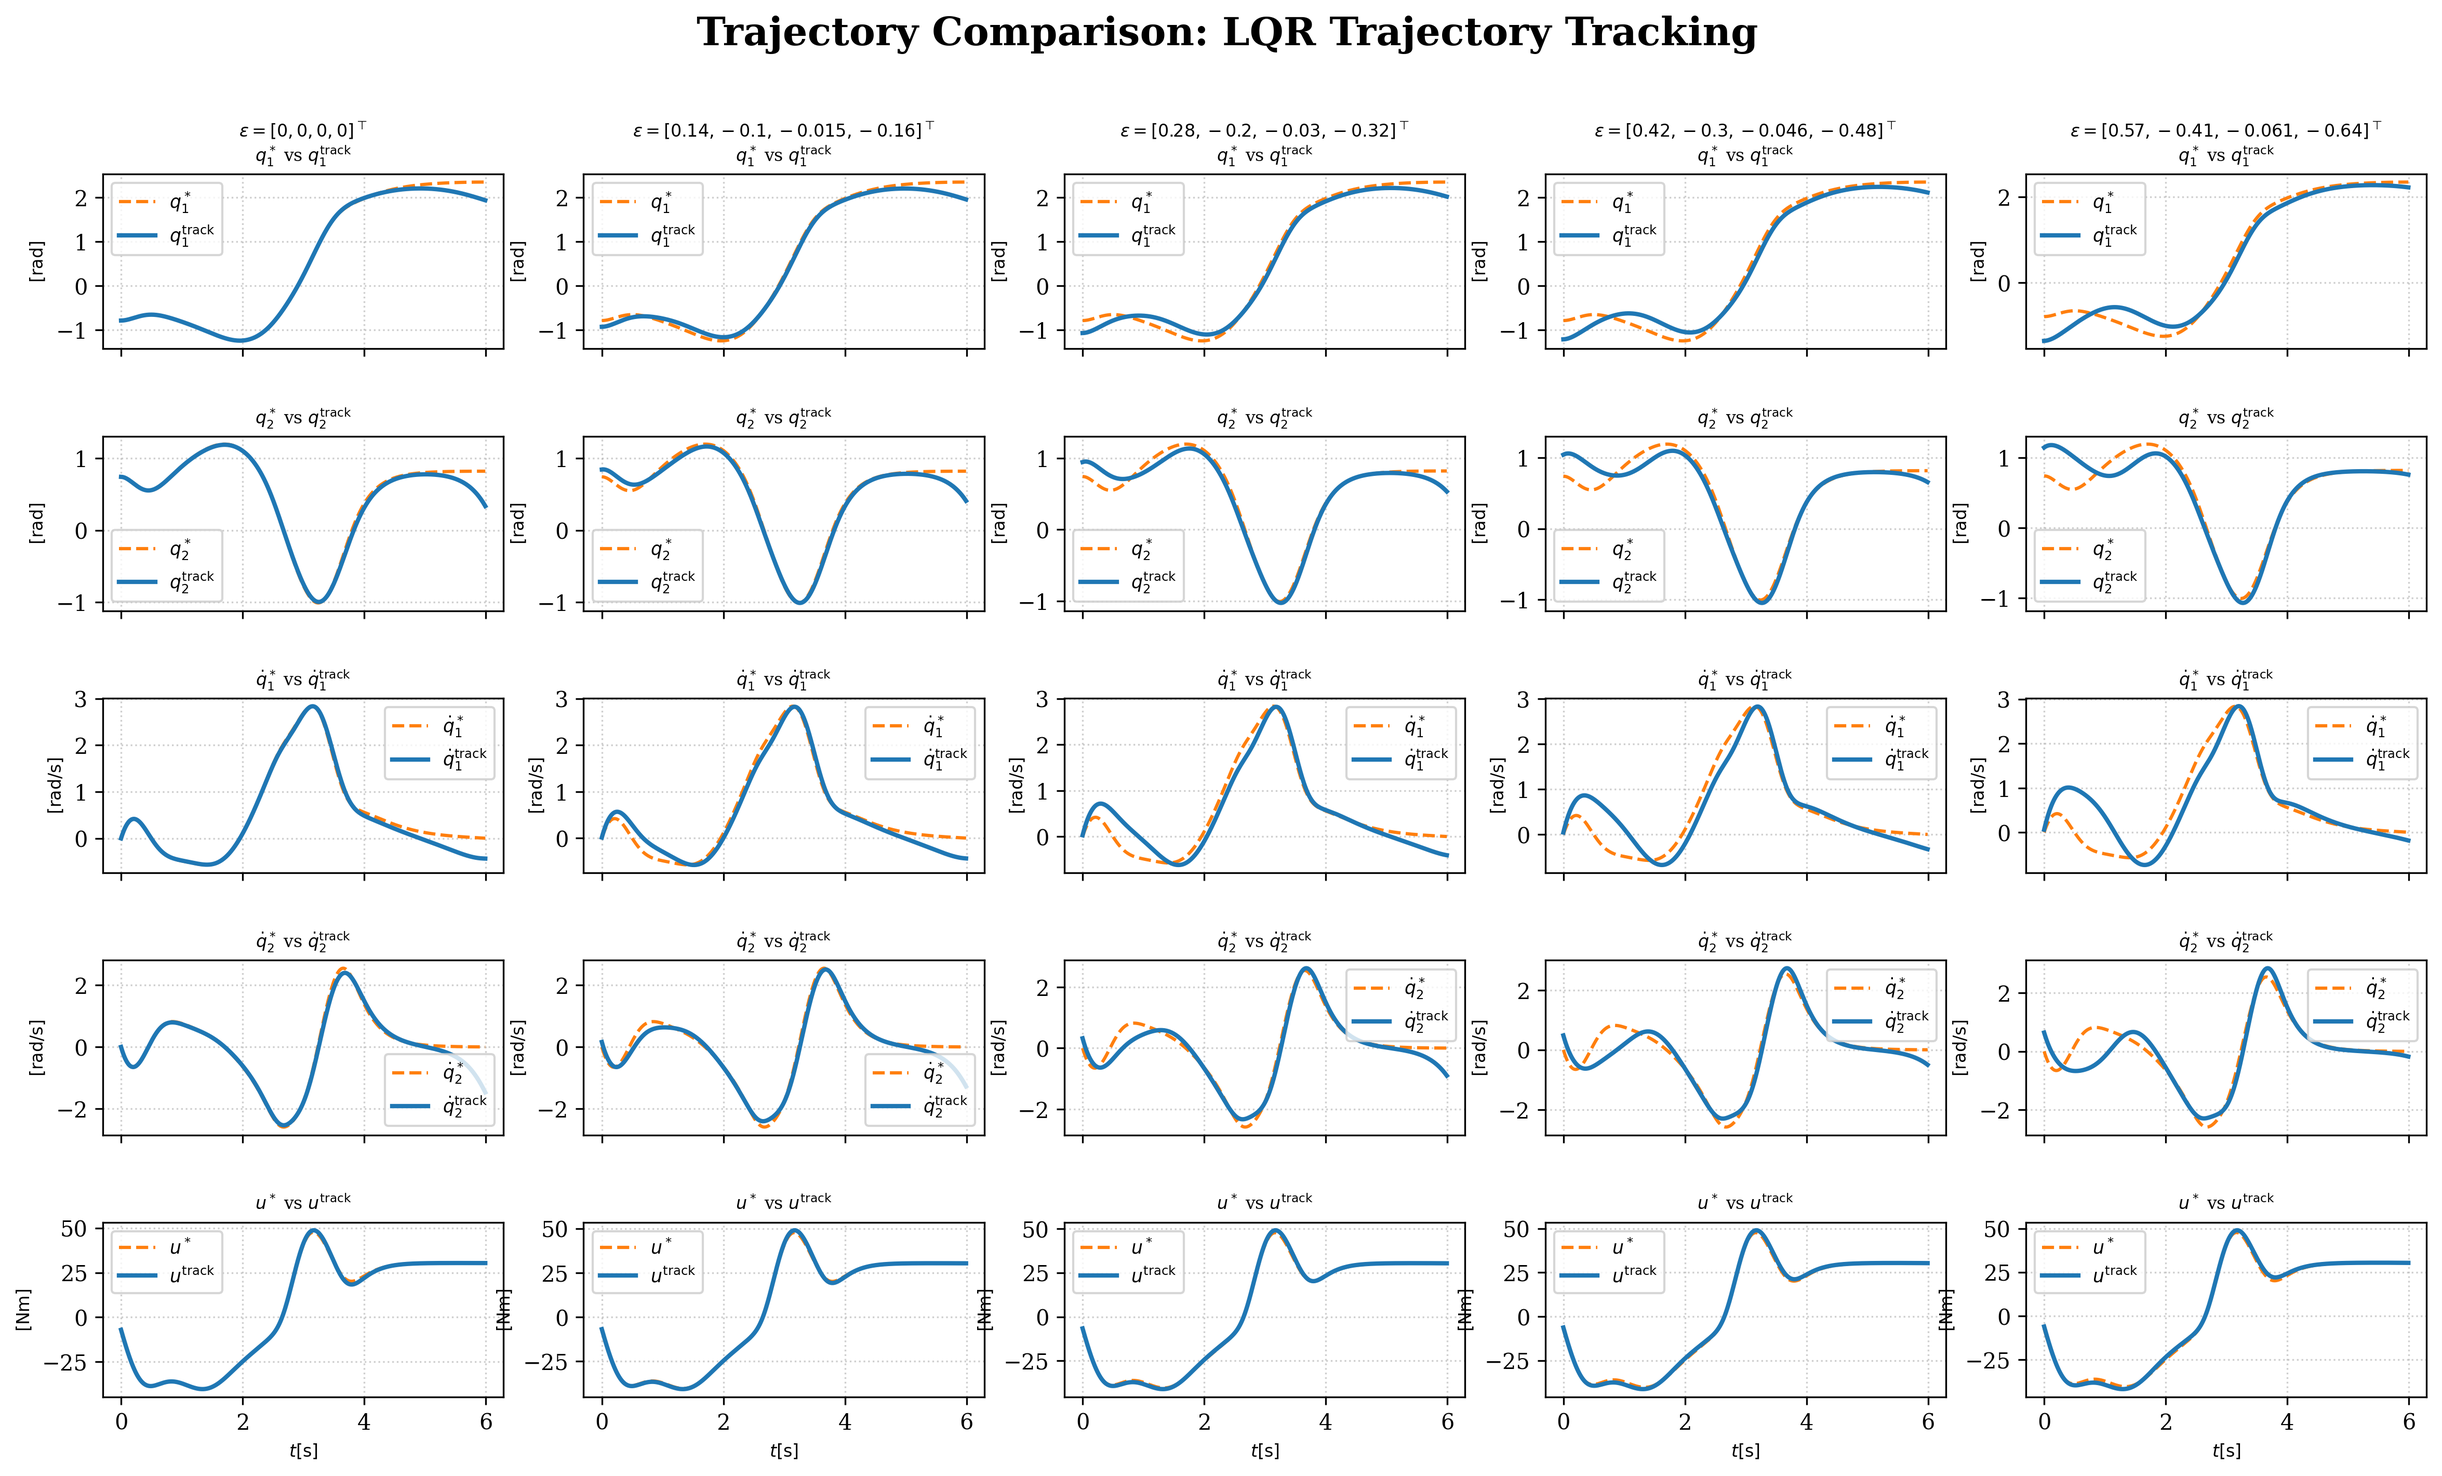
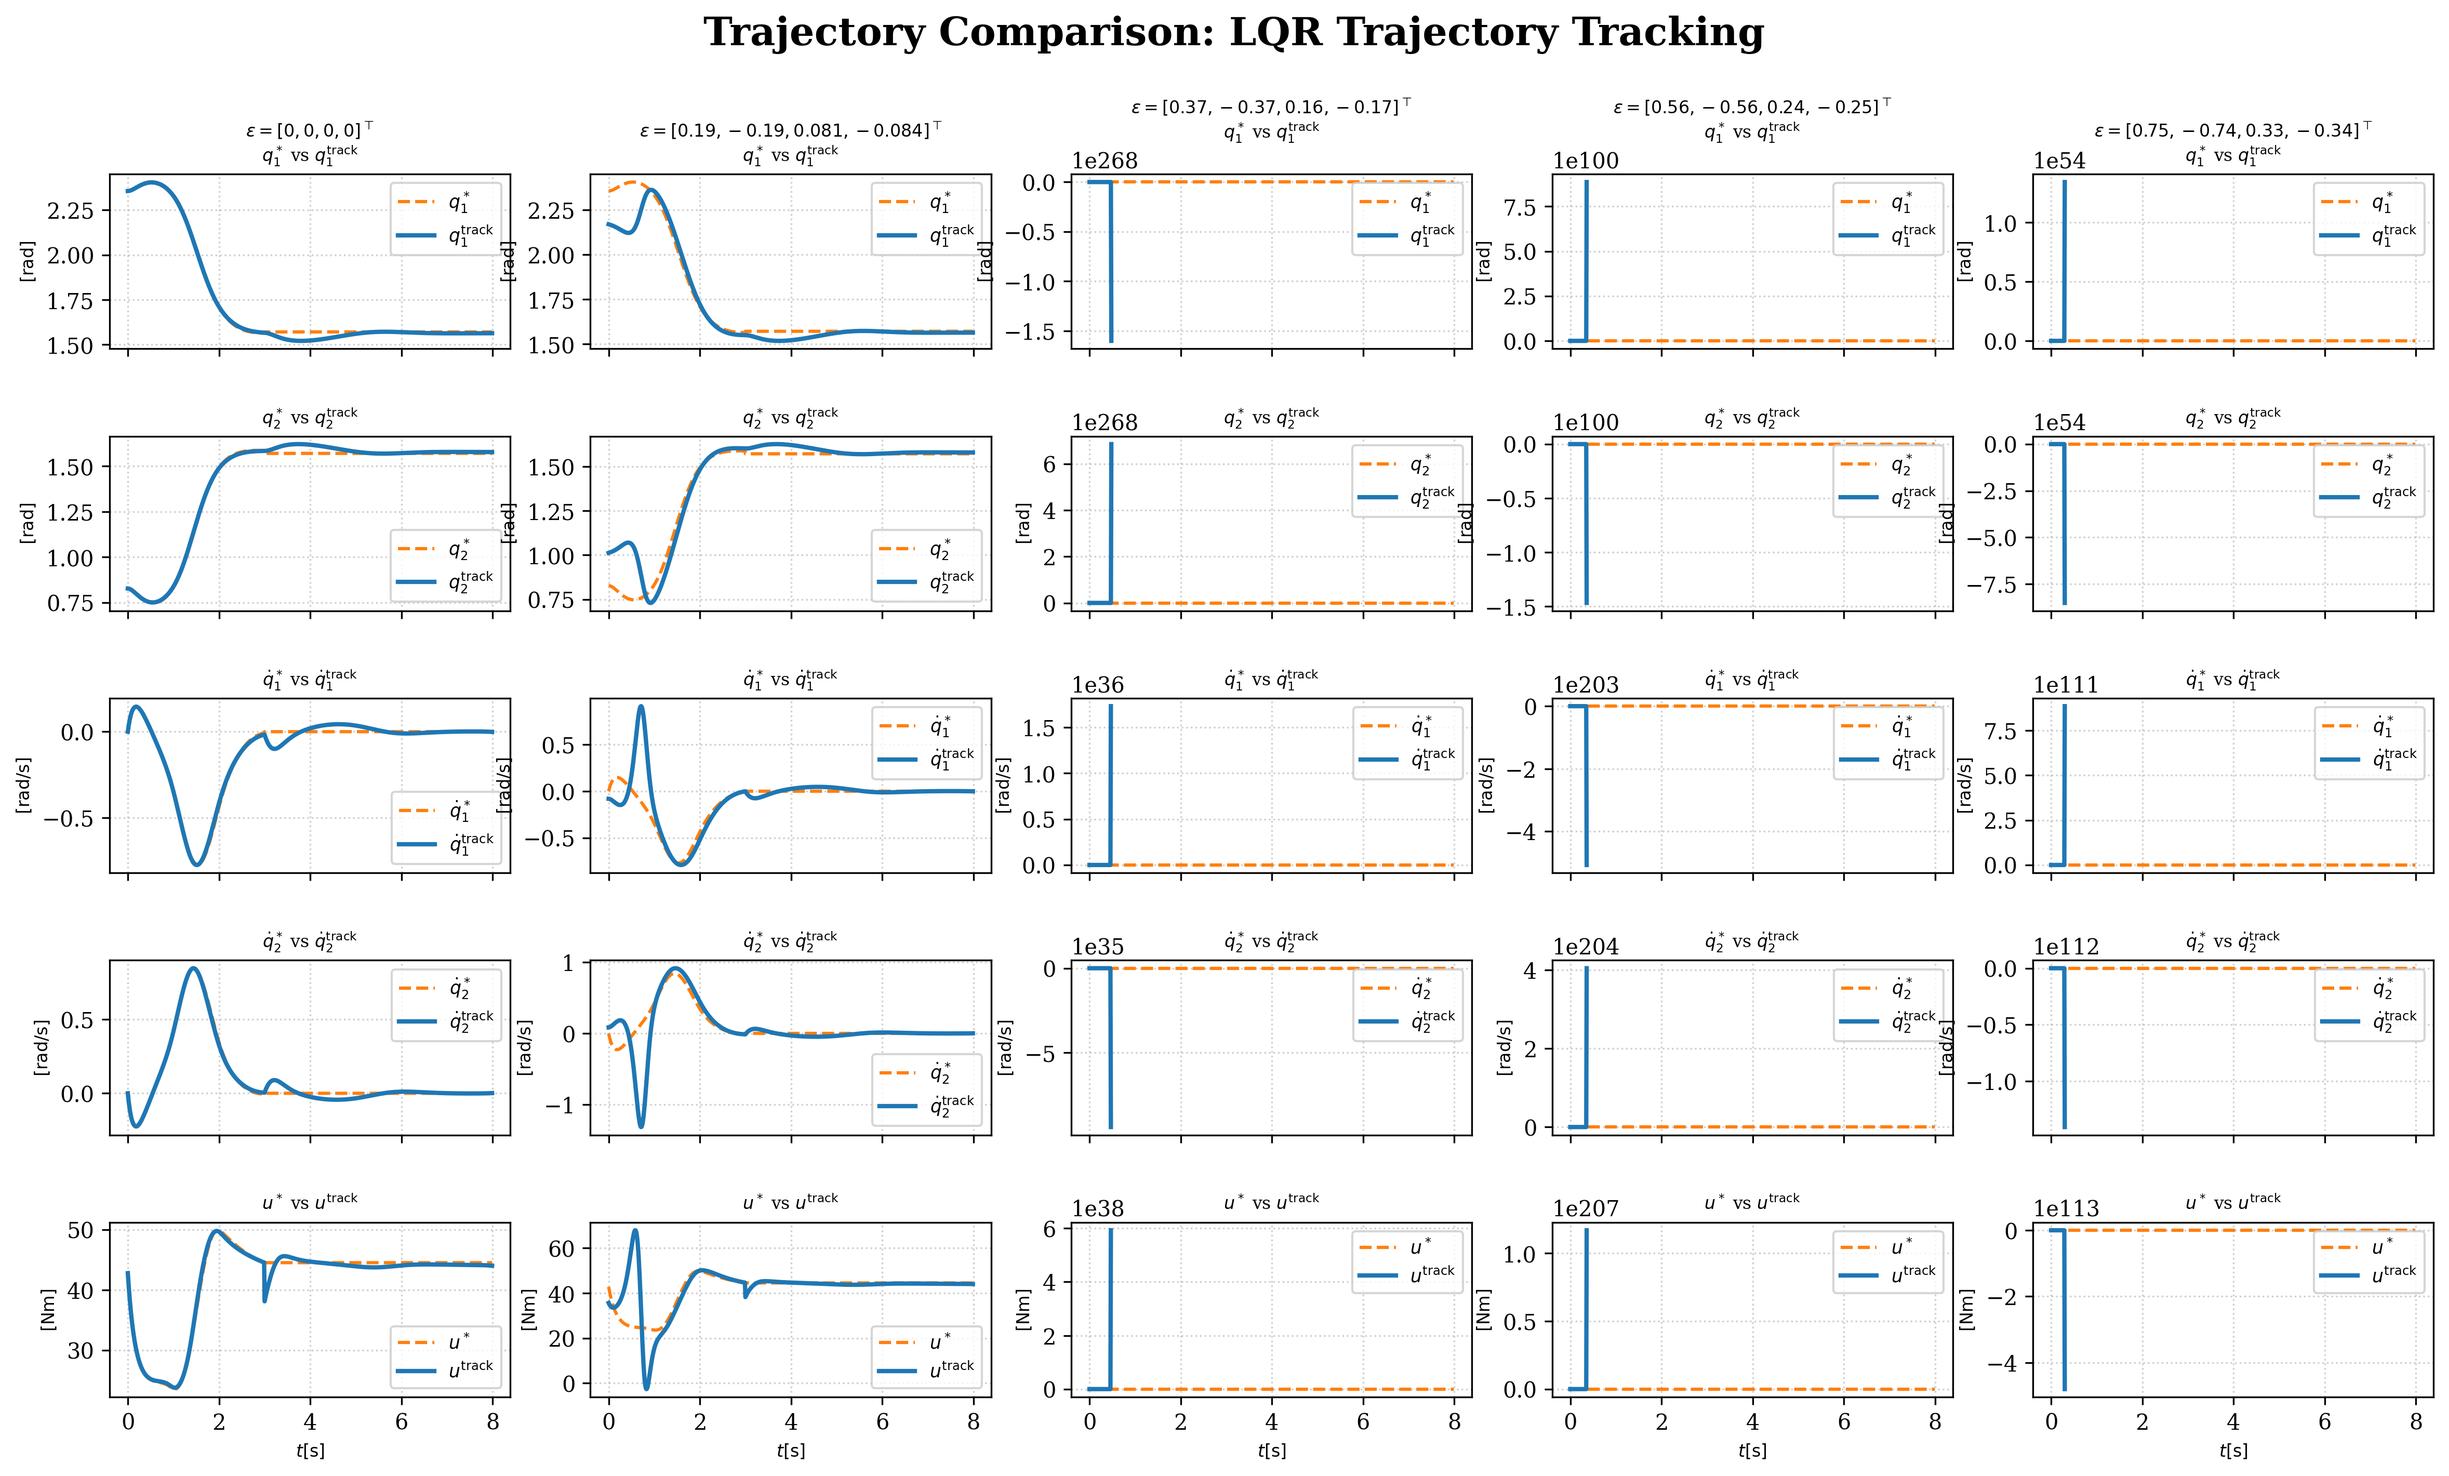
Co-authored-by: giacomo2k2 <giacomo2k2@users.noreply.github.com>

diff --git a/branch4/trajectory_tracking_LQR.py b/branch4/trajectory_tracking_LQR.py
@@ -94,31 +94,29 @@ def trajectory_tracking_LQR(eq_pair1: tuple, eq_pair2: tuple, xx_star: np.ndarra
     #######################################
 
     # Extract time horizon
-    #TT = len(time)
+    TT = len(time)
 
     x_eq, u_eq = eq_pair2
 
-    
-    TT_blend = int(0.1*extend_time / dt)
-    
-    xx_blend = np.zeros((ns, TT_blend))
-    uu_blend = np.zeros((ni, TT_blend))
+    TT_ext = int(extend_time / dt)
 
-    for i in range(ns):
-        xx_blend[i, :] = np.linspace(xx_star[i, -1], x_eq[i], TT_blend)
-    for i in range(ni): 
-        uu_blend[i, :] = np.linspace(uu_star[i, -1], u_eq[i], TT_blend)
     
-    steps_hold = int(0.9*extend_time / dt)
+    xx_eq_ext = np.tile(x_eq[:, np.newaxis], (1, TT_ext))
+    uu_eq_ext = np.tile(u_eq[:, np.newaxis], (1, TT_ext))
 
-    xx_hold = np.tile(x_eq[:, np.newaxis], (1, steps_hold))
-    uu_hold = np.tile(u_eq[:, np.newaxis], (1, steps_hold))
+    xx_traj_ext = np.tile(xx_star[:, -1][:, np.newaxis], (1, TT_ext))
+    uu_traj_ext = np.tile(uu_star[:, -1][:, np.newaxis], (1, TT_ext))
 
     # Extend optimal trajectories by using final equilibrium
-    xx_star = np.hstack((xx_star, xx_blend, xx_hold))
-    uu_star = np.hstack((uu_star, uu_blend, uu_hold))
+    
+    uu_star_eq = np.hstack((uu_star, uu_eq_ext)) # Extend input trajectory discontinuity here
+    xx_star_eq = np.hstack((xx_star, xx_eq_ext)) # Extend state trajectory no discontinuity here
+    
+    uu_star_traj = np.hstack((uu_star, uu_traj_ext)) # Extend input trajectory discontinuity here
+    xx_star_traj = np.hstack((xx_star, xx_traj_ext)) #
 
-    TT_total = xx_star.shape[1]
+
+    TT_total = xx_star_eq.shape[1]
     
     time_ext = np.arange(0, TT_total * dt, dt)
 
@@ -126,7 +124,7 @@ def trajectory_tracking_LQR(eq_pair1: tuple, eq_pair2: tuple, xx_star: np.ndarra
     # [PLOTS] Optimal trajectory
     ######################################
 
-    plots.show_traj(time_ext, xx_star, uu_star, eq_pair1, eq_pair2, title="Optimal trajectory", plot_flag=plot_flag)
+    plots.show_traj(time_ext, xx_star_eq, uu_star_eq, eq_pair1, eq_pair2, title="Optimal trajectory", plot_flag=plot_flag)
 
     ######################################
     # Arrays to store data
@@ -145,7 +143,7 @@ def trajectory_tracking_LQR(eq_pair1: tuple, eq_pair2: tuple, xx_star: np.ndarra
     # Linearization along optimal trajectory
     for rr in range(runs):
         for tt in range(TT_total):
-            At[:, :, tt, rr], Bt[:, :, tt, rr] = solver.jacobian_analytic(xx_star[:,tt], uu_star[:,tt], model)
+            At[:, :, tt, rr], Bt[:, :, tt, rr] = solver.jacobian_analytic(xx_star_traj[:,tt], uu_star_traj[:,tt], model) #no jumps here 
             
 
     #######################################
@@ -158,12 +156,12 @@ def trajectory_tracking_LQR(eq_pair1: tuple, eq_pair2: tuple, xx_star: np.ndarra
 
 
     # Terminal matrices
-    A_final, B_final = At[:, :, -1, 0], Bt[:, :, -1, 0]
+    A_final, B_final = solver.jacobian_analytic(x_eq, u_eq, model) #no jumps here 
 
     # Terminal cost weight matrix
     QQT,_, _ = ctrl.dare(A_final, B_final, QQt, RRt)  
     
-
+    
     
     ######################################
     # [TRACKING PROCEDURE] 3. Track the optimal trajectory with LQR controller
@@ -183,9 +181,10 @@ def trajectory_tracking_LQR(eq_pair1: tuple, eq_pair2: tuple, xx_star: np.ndarra
         # Perturbation epsilon slightly increase for each run
         epsilon_scaled = epsilon * perturbation_scale * rr
 
-        x0[:,rr] = xx_star[:,0] + epsilon_scaled # Initial state
+        x0[:,rr] = xx_star_eq[:,0] + epsilon_scaled # Initial state
         
-        xx_lqr[:,:,rr], uu_lqr[:,:,rr] = solver.ltv_LQR(At[:,:,:,rr], Bt[:,:,:,rr], QQt, RRt, QQT, x0[:, rr], xx_star, uu_star, model)
+        
+        xx_lqr[:,:,rr], uu_lqr[:,:,rr] = solver.ltv_LQR(At[:,:,:,rr], Bt[:,:,:,rr], QQt, RRt, QQT, x0[:, rr], xx_star_eq, uu_star_eq, model)
 
     ######################################
     # [RESULTS AND PLOTS] Final results and plots
@@ -193,17 +192,17 @@ def trajectory_tracking_LQR(eq_pair1: tuple, eq_pair2: tuple, xx_star: np.ndarra
 
     if debug_print:
         for rr in range(runs):
-            final_error = np.linalg.norm(xx_lqr[:, -1, rr] - xx_star[:, -1])
+            final_error = np.linalg.norm(xx_lqr[:, -1, rr] - xx_star_eq[:, -1])
             print(f"Final tracking error (run {rr+1}): {final_error:.4f}")
 
     # Trajectory 
-    plots.trajectory_comparison(time_ext, xx_star, uu_star, xx_lqr, uu_lqr, title="LQR Trajectory Tracking", plot_flag=plot_flag, folder=folder)
+    plots.trajectory_comparison(time_ext, xx_star_eq, uu_star_eq, xx_lqr, uu_lqr, title="LQR Trajectory Tracking", plot_flag=plot_flag, folder=folder)
 
     # Tracking comparison
-    plots.tracking_error(time_ext, xx_star, uu_star, xx_lqr, uu_lqr, title="LQR Tracking Error", plot_flag=plot_flag, folder=folder)
+    plots.tracking_error(time_ext, xx_star_eq, uu_star_eq, xx_lqr, uu_lqr, title="LQR Tracking Error", plot_flag=plot_flag, folder=folder)
 
     # Animation of the tracking for the first run
-    anim.animate_comparison(model, xx_lqr[:,:,0], xx_star, eq_pair1, eq_pair2, dt, plot_flag=plot_flag, folder=folder)
+    anim.animate_comparison(model, xx_lqr[:,:,0], xx_star_eq, eq_pair1, eq_pair2, dt, plot_flag=plot_flag, folder=folder)
 
 ######################################
 # MAIN
@@ -264,7 +263,7 @@ def main():
     ######################################
 
     trajectory_tracking_LQR(
-        eq_pair1, eq_pair2, xx_star, uu_star, time, extend_time=0, runs=runs, 
+        eq_pair1, eq_pair2, xx_star, uu_star, time, extend_time=5, runs=runs, 
         perturb=True, perturbation_scale=perturb_scale, plot_flag=plot_flag, debug_print=debug_flag, folder=folder)
 
 
